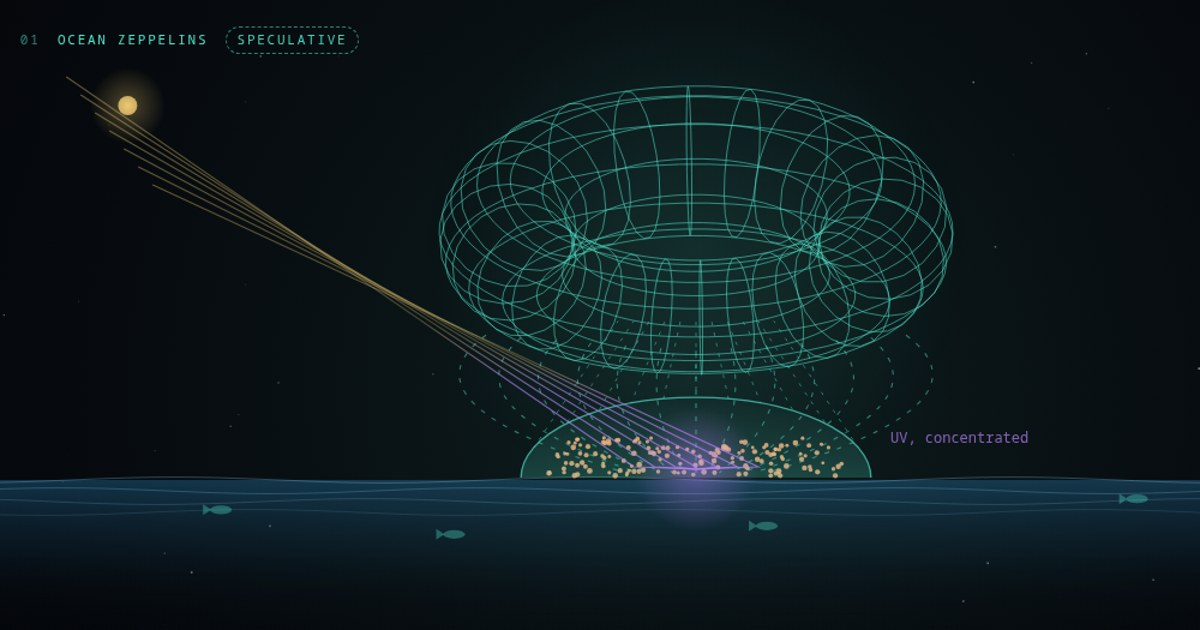
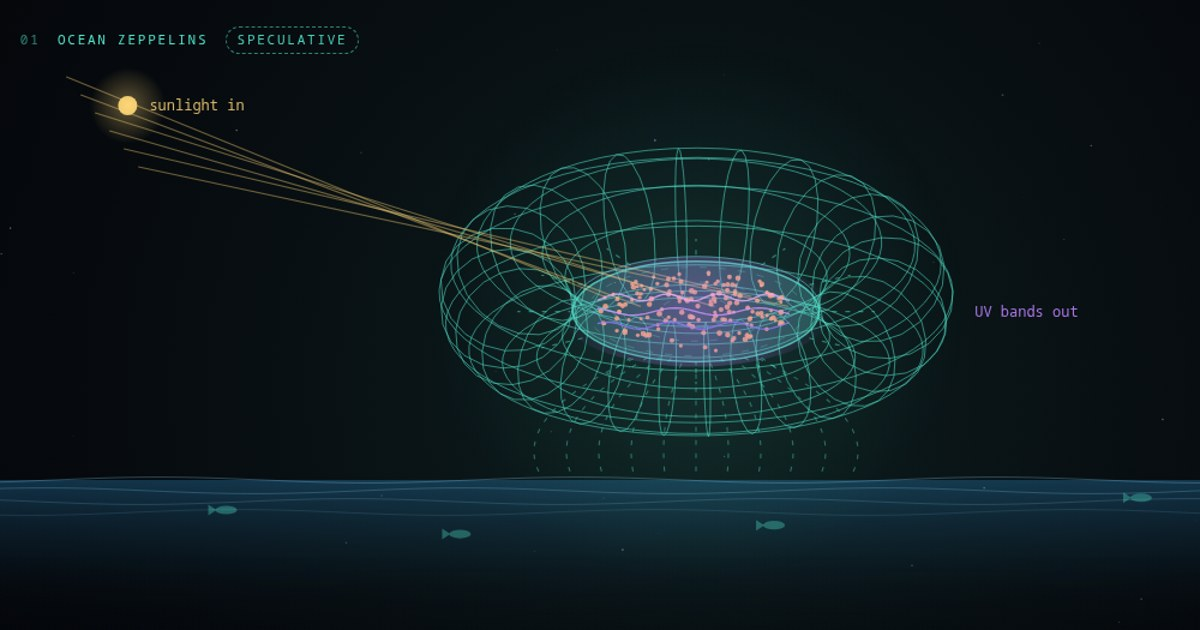
Zeppelin: film held in the ring by static charge, phosphoresces sunlight into UV

diff --git a/index.html b/index.html
@@ -143,10 +143,10 @@ noscript{position:fixed;inset:0;display:grid;place-items:center;padding:2rem;tex
     <div class="copy">
       <div class="beat" data-a="0" data-b=".12"><p class="lead">Start with the ocean.</p><p class="sub">Microplastic is in every layer of it, in pieces too small to net and too many to pick up.</p></div>
       <div class="beat" data-a=".12" data-b=".28"><p class="lead">Above it, a <em>ring</em>.</p><p class="sub">A toroidal airship. The donut shape spreads structure and lift evenly around a central hole, which is the claim for its stability.</p></div>
-      <div class="beat" data-a=".28" data-b=".46"><p class="lead">It hovers low and switches on a wide electrostatic field.</p><p class="sub">The charged particulates are drawn toward the surface and gather under the hull.</p></div>
-      <div class="beat" data-a=".46" data-b=".6"><p class="lead">Then it releases a liquid <em>film</em>.</p><p class="sub">A thin layer that cycles continuously: pumped out over the plastic, drawn back in.</p></div>
-      <div class="beat" data-a=".6" data-b=".78"><p class="lead">The film is a lens and a catalyst.</p><p class="sub">It takes ordinary sunlight and concentrates it into ultraviolet, right where the plastic sits.</p></div>
-      <div class="beat" data-a=".78" data-b=".92"><p class="lead">UV breaks the polymer chains.</p><p class="sub">Long chains split into short ones, then into simple, harmless molecules.</p></div>
+      <div class="beat" data-a=".28" data-b=".44"><p class="lead">It hovers low and builds a static charge.</p><p class="sub">The field does two jobs. First, it holds a liquid <em>film</em> in place across the centre of the ring.</p></div>
+      <div class="beat" data-a=".44" data-b=".6"><p class="lead">Second, it pulls plastic up out of the water.</p><p class="sub">Charged microplastic rises off the surface and into the film, which cycles continuously so fresh liquid keeps meeting it.</p></div>
+      <div class="beat" data-a=".6" data-b=".78"><p class="lead">The film <em>phosphoresces</em>.</p><p class="sub">It absorbs ordinary sunlight and re-emits it as specific bands of ultraviolet, the wavelengths that break plastic apart.</p></div>
+      <div class="beat" data-a=".78" data-b=".92"><p class="lead">UV breaks the polymer chains.</p><p class="sub">Inside the film, long chains split into short ones, then into simple, harmless molecules.</p></div>
       <div class="beat" data-a=".92" data-b="1.01"><p class="lead">The fish keep swimming.</p><p class="sub">That is the pitch: clean the sea without touching anything that lives in it.</p></div>
     </div>
   </div>
@@ -238,7 +238,7 @@ noscript{position:fixed;inset:0;display:grid;place-items:center;padding:2rem;tex
       <div class="beat" data-a=".18" data-b=".36"><p class="lead">Each hangs on one missing piece.</p></div>
       <div class="beat" data-a=".36" data-b=".72"><p class="lead">What each one needs.</p>
         <div class="adr">
-          <div><b style="color:rgb(80,225,200)">zeppelin</b><span>A film that makes UV at sea scale. Photocatalysis itself is real, in labs.</span></div>
+          <div><b style="color:rgb(80,225,200)">zeppelin</b><span>A film that phosphoresces sunlight into plastic-breaking UV, held by charge at sea scale. UV photocatalysis is real, in labs.</span></div>
           <div><b style="color:rgb(255,170,80)">gravitic</b><span>A thrust effect that survives in a vacuum. None has been shown.</span></div>
           <div><b style="color:rgb(110,160,255)">ion pod</b><span>Room-temperature superconductors and a megawatt power source. Ion drives themselves fly.</span></div>
           <div><b style="color:rgb(255,120,200)">whisps</b><span>Billions of self-latching micro-nodes. Modular robots exist, at much larger sizes.</span></div>
@@ -369,7 +369,7 @@ scenes.hook = (g, w, h, p, t, c) => {
 const FISH = [[.2, 22, .8], [.55, 36, 1.1], [.8, 16, .6], [.35, 48, .9]];
 scenes.zep = (g, w, h, p, t, S) => {
   const AC = C.zep, cx = w / 2, seaY = h * .5, U = Math.min(w * .2, h * .135);
-  const appear = ss(.06, .16, p), cy = lerp(h * .16, h * .26, ss(.1, .3, p));
+  const appear = ss(.06, .16, p), cy = lerp(h * .16, seaY - 1.3 * U, ss(.1, .3, p));
   if (!S.mp) S.mp = Array.from({ length: 150 }, () => ({ x: rnd(), y: rnd(), ph: rnd() * TAU, a: rnd() * TAU, cxr: rnd(), cyr: rnd(), r: 1.4 + rnd() }));
   // sea
   const sg = g.createLinearGradient(0, seaY, 0, h * .66); sg.addColorStop(0, rgba('40,120,170', .38)); sg.addColorStop(1, 'rgba(5,6,10,0)');
@@ -393,62 +393,66 @@ scenes.zep = (g, w, h, p, t, S) => {
   glow.addColorStop(0, rgba(AC, .1 * appear)); glow.addColorStop(1, rgba(AC, 0));
   g.fillStyle = glow; g.fillRect(cx - U * 2.2, cy - U * 2.2, U * 4.4, U * 4.4);
   torusWire(g, P, 1.45, .5, AC, .55 * appear);
-  // electrostatic field lines
-  const F = ss(.28, .4, p) * (1 - .6 * ss(.9, 1, p));
-  if (F > .01) {
-    g.save(); g.setLineDash([4, 7]); g.lineDashOffset = -t * 26; g.lineWidth = 1.1;
-    for (let i = -6; i <= 6; i++) {
-      const x0 = cx + i * U * .27, y0 = cy + U * .78 - Math.abs(i) * U * .02, x1 = cx + i * U * .09, y1 = seaY - 6;
-      g.strokeStyle = rgba(AC, .5 * F); g.beginPath(); g.moveTo(x0, y0);
-      g.quadraticCurveTo(x0 + i * U * .12, (y0 + y1) / 2, x1, y1); g.stroke();
+  // the film: held across the hole by the static charge
+  const hx = .95 * U, hy = hx * Math.sin(pitch), FD = ss(.3, .42, p), F = ss(.28, .4, p) * (1 - .5 * ss(.9, 1, p));
+  const G1 = ss(.44, .6, p), L = ss(.6, .72, p) * (1 - ss(.94, 1, p) * .7);
+  if (F > .01) {   // charge: arcs from the inner rim to the film edge, and a pull from the sea
+    g.save(); g.setLineDash([4, 7]); g.lineWidth = 1.1;
+    for (let i = 0; i < 12; i++) {
+      const a = i / 12 * TAU, rx = Math.cos(a), ry = Math.sin(a);
+      g.lineDashOffset = -t * 20; g.strokeStyle = rgba(AC, .5 * F);
+      g.beginPath(); g.moveTo(cx + rx * hx * 1.45, cy + ry * hy * 1.45); g.lineTo(cx + rx * hx * 1.02, cy + ry * hy * 1.02); g.stroke();
+    }
+    const pull = ss(.42, .5, p) * (1 - .6 * ss(.9, 1, p));
+    for (let i = -5; i <= 5; i++) {
+      const x0 = cx + i * U * .24, y0 = seaY - 4, x1 = cx + i * U * .09, y1 = cy + hy * .9;
+      g.lineDashOffset = t * 26; g.strokeStyle = rgba(AC, .42 * pull);
+      g.beginPath(); g.moveTo(x0, y0); g.quadraticCurveTo(x0 + i * U * .05, (y0 + y1) / 2, x1, y1); g.stroke();
     }
     g.restore();
   }
-  // plastic
-  const G1 = ss(.3, .5, p), D = ss(.78, .9, p), gone = ss(.88, .98, p), pieces = Math.round(S.mp.length * (1 - ss(.84, .97, p)));
+  if (FD > .01) {
+    const fg = g.createRadialGradient(cx, cy, 0, cx, cy, hx);
+    fg.addColorStop(0, rgba(AC, .1 * FD)); fg.addColorStop(1, rgba(AC, .26 * FD));
+    g.fillStyle = fg; g.beginPath(); g.ellipse(cx, cy, hx, hy, 0, 0, TAU); g.fill();
+    g.strokeStyle = rgba(AC, .8 * FD); g.lineWidth = 1.4; g.beginPath(); g.ellipse(cx, cy, hx, hy, 0, 0, TAU); g.stroke();
+    g.lineWidth = 1; g.strokeStyle = rgba(AC, .3 * FD);   // the cycling: concentric flow
+    for (let k = 1; k <= 3; k++) { g.save(); g.setLineDash([6, 10]); g.lineDashOffset = -t * 18 * (k % 2 ? 1 : -1); g.beginPath(); g.ellipse(cx, cy, hx * k / 3.4, hy * k / 3.4, 0, 0, TAU); g.stroke(); g.restore(); }
+  }
+  // plastic: rises off the surface into the film
+  const D = ss(.78, .9, p), gone = ss(.88, .98, p), pieces = Math.round(S.mp.length * (1 - ss(.84, .97, p)));
   S.mp.forEach((q, i) => {
     const bx = w * (.03 + .94 * q.x) + Math.sin(t * .4 + q.ph) * 6, by = seaY + 10 + q.y * h * .085 + Math.cos(t * .5 + q.ph) * 3;
-    const tx = cx + (q.cxr - .5) * 2.3 * U, ty = seaY - 3 - q.cyr * U * .3;
-    const gi = ss(0, 1, G1 * 1.7 - Math.abs(bx - cx) / w * 1.1), x = lerp(bx, tx, gi), y = lerp(by, ty, gi);
+    const ta = q.a, tr = Math.sqrt(q.cyr) * .8, tx = cx + Math.cos(ta) * hx * tr, ty = cy + Math.sin(ta) * hy * tr;
+    const gi = ss(0, 1, G1 * 1.7 - Math.abs(bx - cx) / w * 1.1), x = lerp(bx, tx, gi), y = lerp(by, ty, gi) - Math.sin(gi * Math.PI) * 6;
     if (D > 0 && gi > .5) {
-      const ang = q.a, sp = 5 * (1 + D * 3.5), al = (1 - gone) * .9;
+      const sp = 5 * (1 + D * 3.5), al = (1 - gone) * .9;
       for (let k = 0; k < 4; k++) {
-        const o = (k - 1.5) * sp;
-        pt(g, x + Math.cos(ang) * o, y + Math.sin(ang) * o * .5, q.r * (1 - .45 * D), rgba('255,170,120', al));
-        if (k) line(g, x + Math.cos(ang) * (o - sp), y + Math.sin(ang) * (o - sp) * .5, x + Math.cos(ang) * o, y + Math.sin(ang) * o * .5, rgba('255,170,120', al * (1 - D)));
+        const o = (k - 1.5) * sp, px = x + Math.cos(ta) * o, py = y + Math.sin(ta) * o * .5;
+        pt(g, px, py, q.r * (1 - .45 * D), rgba('255,170,120', al));
+        if (k) line(g, x + Math.cos(ta) * (o - sp), y + Math.sin(ta) * (o - sp) * .5, px, py, rgba('255,170,120', al * (1 - D)));
       }
     } else pt(g, x, y, q.r, rgba('255,170,120', .85));
   });
-  // film dome and its circulation
-  const FD = ss(.46, .58, p);
-  if (FD > .01) {
-    const dw = 1.35 * U, dh = .62 * U, dy = seaY - 2;
-    const dg = g.createLinearGradient(0, dy - dh, 0, dy); dg.addColorStop(0, rgba(AC, .02)); dg.addColorStop(1, rgba(AC, .22 * FD));
-    g.fillStyle = dg; g.beginPath(); g.ellipse(cx, dy, dw, dh, 0, Math.PI, TAU); g.fill();
-    g.strokeStyle = rgba(AC, .7 * FD); g.lineWidth = 1.3; g.beginPath(); g.ellipse(cx, dy, dw, dh, 0, Math.PI, TAU); g.stroke();
-    g.save(); g.lineWidth = 1; g.setLineDash([3, 6]);
-    for (let i = -5; i <= 5; i++) {
-      const x = cx + i * dw / 5.4, top = dy - dh * Math.sqrt(Math.max(0, 1 - ((x - cx) / dw) ** 2));
-      g.lineDashOffset = (Math.abs(i) > 3 ? 1 : -1) * t * 22;
-      g.strokeStyle = rgba(AC, .45 * FD); g.beginPath(); g.moveTo(cx + i * U * .12, cy + U * .55); g.lineTo(x, top); g.stroke();
-    }
-    g.restore();
-  }
-  // sunlight in, UV out
-  const L = ss(.6, .72, p) * (1 - ss(.95, 1, p) * .6);
+  // sunlight in, phosphoresced UV out
   if (L > .01) {
     dot(g, w * .13, h * .11, 8, C.sun, L);
-    const fx = cx, fy = seaY - 9;
-    for (let i = 0; i < 7; i++) {
-      const sx = w * .09 + i * 12, sy = h * .08 + i * 15, ex = cx + (i - 3) * U * .16;
-      const rg = g.createLinearGradient(sx, sy, ex, fy); rg.addColorStop(0, rgba(C.sun, .5 * L)); rg.addColorStop(.62, rgba(C.sun, .35 * L)); rg.addColorStop(.78, rgba(C.uv, .85 * L)); rg.addColorStop(1, rgba(C.uv, .95 * L));
-      g.strokeStyle = rg; g.lineWidth = 1.2; g.beginPath(); g.moveTo(sx, sy); g.lineTo(ex, fy - 2); g.lineTo(fx, fy); g.stroke();
+    for (let i = 0; i < 6; i++) {
+      const sx = w * .09 + i * 12, sy = h * .08 + i * 15, ex = cx + (i - 2.5) * hx * .3, ey = cy - hy * .3 + (i % 2) * hy * .2;
+      g.strokeStyle = rgba(C.sun, .45 * L); g.lineWidth = 1.2; g.beginPath(); g.moveTo(sx, sy); g.lineTo(ex, ey); g.stroke();
     }
-    const fg = g.createRadialGradient(fx, fy, 0, fx, fy, 70 * L); fg.addColorStop(0, rgba(C.uv, .55 * L * (.85 + .15 * Math.sin(t * 6)))); fg.addColorStop(1, rgba(C.uv, 0));
-    g.fillStyle = fg; g.fillRect(fx - 80, fy - 80, 160, 160);
-    txt(g, 'UV, concentrated', fx + 1.5 * U, fy - 22, { color: rgba(C.uv, .95 * L), size: 12 });
+    const glow2 = g.createRadialGradient(cx, cy, 0, cx, cy, hx * 1.1); glow2.addColorStop(0, rgba(C.uv, .5 * L * (.85 + .15 * Math.sin(t * 6)))); glow2.addColorStop(1, rgba(C.uv, 0));
+    g.fillStyle = glow2; g.beginPath(); g.ellipse(cx, cy, hx * 1.1, hy * 1.1, 0, 0, TAU); g.fill();
+    g.lineWidth = 1.3;   // narrow UV bands, each a different wavelength
+    [[.0, '210,150,255'], [.28, '150,120,255'], [-.28, '240,170,255']].forEach(([o, col], k) => {
+      g.strokeStyle = rgba(col, .85 * L); g.beginPath();
+      for (let x = -hx * .8; x <= hx * .8; x += 5) { const y = cy + o * hy + Math.sin(x * (.09 + k * .03) - t * 4 + k) * 3; x > -hx * .8 ? g.lineTo(cx + x, y) : g.moveTo(cx + x, y); }
+      g.stroke();
+    });
+    txt(g, 'sunlight in', w * .13 + 18, h * .11 + 4, { color: rgba(C.sun, .9 * L), size: 12 });
+    txt(g, 'UV bands out', cx + 2.15 * U, cy + 4, { color: rgba(C.uv, .95 * L), size: 12 });
   }
-  const stage = p < .12 ? 'open water' : p < .28 ? 'airship' : p < .46 ? 'field on' : p < .6 ? 'film out' : p < .78 ? 'sunlight to UV' : p < .92 ? 'chains breaking' : 'clear';
+  const stage = p < .12 ? 'open water' : p < .28 ? 'airship' : p < .44 ? 'charge holds film' : p < .6 ? 'plastic rising' : p < .78 ? 'film phosphoresces' : p < .92 ? 'chains breaking' : 'clear';
   readout(g, w, h, 'Zeppelin', [[stage, rgba(AC, .95)], [`plastic in view  ${pieces}`, 'rgba(215,224,250,.7)']], AC);
 };
 
